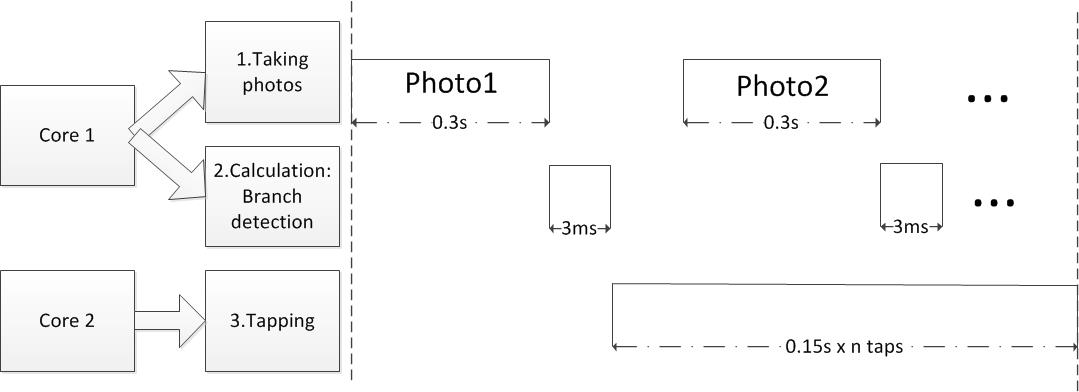
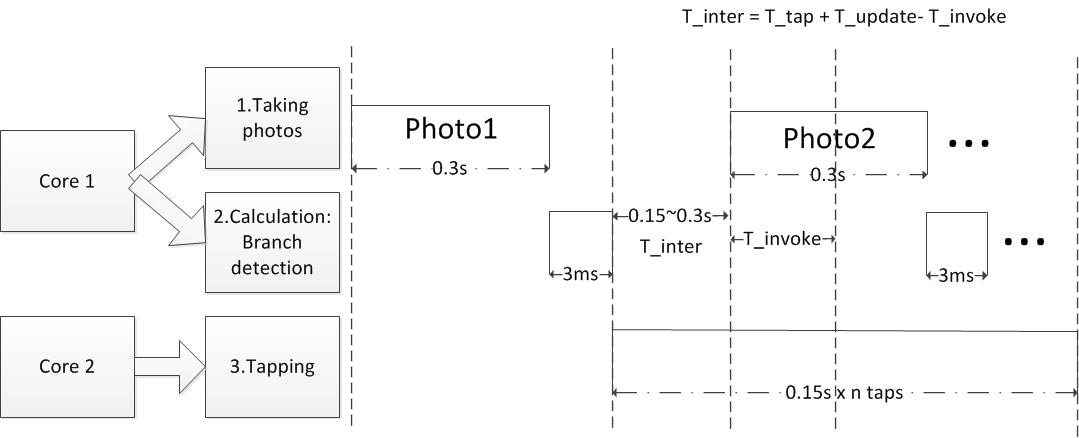
final

diff --git a/index.html b/index.html
@@ -430,30 +430,34 @@
             <p class="lead">Even if our Pi Game Player is able to defeat all human players, the accident game-over caused by miss tapping on the touch screen is an annoying but important issue for this project. If this problem can be resolved, our Pi Game Player can get an infinite score in theory. Therefore this part is going to analyze the possibilities of the missing taping and covers some methods to improve or resolve it.</p>
             <ul>
 			<li><p><b><span>Possible Reasons for missing Tapping</span></b></p>
-			<b>(1) Golden Pad</b>
-			<br>
-			To address the problem of the missing tapping owing to electrodes, TA Jacob recommended us we can use a gold pad for our electrodes since the conductivity of golden is higher than copper. So it can collect electrons from the electrodes better and faster than the copper which we are using for our project right now. 
-			<br>
-			<b>(2) Environmental Light Condition</b>
-			<br>
-			In this project, we put lots of effort in speeding up our algorithm so we made the resolution of the picture taken by the piCamera really low (160*120). However, this idea makes our algorithm vulnerable to the environmental light condition - every time we test our program we have to make the environmental light condition uniform by keeping it for a certain distance. We can make our algorithm less vulnerable by elevating our resolution to 320*240. If we make the resolution higher, the image would contain more intensity information and we can make our algorithm more stable and accurate. 
-			<br>
-			<b>(3) Detection </b>
-			<br>
-			For now, our platform uses a cheap picamera which provides a low-quality image and slows the speeds of our implementation. Another alternative to speed up our algorithm and enhance the accuracy of our detection is to use RGB Color Sensor with IR filter. With the RGB Color Sensor, it can detect the changes of the color over a region fast and accurately, which provides a better solution than piCamera. Furthermore, using this sensor, we don't need to take care of the issue of environmental light condition change because it only detects the changes in the RGB values. 
-			<br>
-			<b>(4) Circuits</b>
-			<br>
-			First, the missing tapping probably owing to the circuit we built for triggering a tapping. The most suspicious part which can cause this problem is the H11F1. According to its datasheet, the time for turning on/off is less than 15us which seems pretty good. However, here we are using coins as the pad for drawing electrons so that time consumed maybe not stable. Thus sometimes the time for drawing a few electrons maybe even more than 0.05s which leads to a miss tapping.
-			<br>
-			<b>(5) Errors of tapping detection on the capacitive touch screen</b>
-			<br>
-			Furthermore, the missing tapping may also result from the miss detection of the capacitive touch screen. We all have the experiences that sometimes the touch-screen is not so sensitive when we touch our smartphone. Thus, such so-called miss tapping may actually the missing detecting of our touch-screen which is unavoidable.
+			
+			The missing tapping may also result from the miss detection of the capacitive touch screen. We all have the experiences that sometimes the touch-screen is not so sensitive when we touch our smartphone. Thus, such so-called miss tapping may actually the missing detecting of our touch-screen which is unavoidable.
             </li>
 			<li><p><b><span>Strategies for resolving these problems</span></b></p>
-			Since the time for each process like taking photos, tapping can't be further decreased, and the problem of missing tapping can be reduced by the extension of tapping time, the timing control is a tricky issue here. We have to consider about the enough time but can not make it too long owing to the time limit when playing the game.  The best idea for improving the speed of executing multiple processes is pipelining/paralleled execution. 
+            <b>(1) Golden Pad</b>
+            <br>
+            To address the problem of the missing tapping owing to electrodes, TA Jacob recommended us we can use a gold pad for our electrodes since the conductivity of golden is higher than copper. So it can collect electrons from the electrodes better and faster than the copper which we are using for our project right now. 
+            <br>
+            <b>(2) Environmental Light Condition</b>
+            <br>
+            In this project, we put lots of effort in speeding up our algorithm so we made the resolution of the picture taken by the piCamera really low (160*120). However, this idea makes our algorithm vulnerable to the environmental light condition - every time we test our program we have to make the environmental light condition uniform by keeping it for a certain distance. We can make our algorithm less vulnerable by elevating our resolution to 320*240. If we make the resolution higher, the image would contain more intensity information and we can make our algorithm more stable and accurate. 
+            <br>
+            <b>(3) Detection </b>
+            <br>
+            For now, our platform uses a cheap picamera which provides a low-quality image and slows the speeds of our implementation. Another alternative to speed up our algorithm and enhance the accuracy of our detection is to use RGB Color Sensor with IR filter. With the RGB Color Sensor, it can detect the changes of the color over a region fast and accurately, which provides a better solution than piCamera. Furthermore, using this sensor, we don't need to take care of the issue of environmental light condition change because it only detects the changes in the RGB values. 
+            <br>
+            <b>(4) Circuits</b>
+            <br>
+            First, the missing tapping probably owing to the circuit we built for triggering a tapping. The most suspicious part which can cause this problem is the H11F1. According to its datasheet, the time for turning on/off is less than 15us which seems pretty good. However, here we are using coins as the pad for drawing electrons so that time consumed maybe not stable. Thus sometimes the time for drawing a few electrons maybe even more than 0.05s which leads to a miss tapping.
+            <br>
+            <b>(5) Parallelized Execution</b>
+            <br>
+			Currently, our Pi Game Player can do a good job but it can perform better. The timing control is a tricky issue here because the time for each process like taking photos, tapping can't be further decreased, and the problem of missing tapping can be reduced by the extension of tapping time. We have to consider about the enough time but can not make it too long owing to the time limit when playing the game.  The best idea for improving the speed of executing multiple processes is pipelining/paralleled execution. 
 			<br>
-			Here we want to appreciate our professor - Professor Joseph who provided this idea! We can build a FIFO system to store the control signals generated by the calculation. We can use different cores to be in charge different work here. For example, the job of Core 1 is to take photos, calculate the values for detection and store control signals into control FIFO. Core 2 is responsible for tapping on the screen. Following is the basic idea of paralleled execution for our project. Since the time of two tapping is nearly the same as taking one photo plus the calculation. Besides, we can generate five tapping events after taking one photo, the paralleled execution is practicable. Just as the timing diagram shows, after the first picture taken and analyzed, five tapping control signals have been stored into output FIFO. Aud after tapping twice, the screen is updated which is available to take a new photo and generate another two tapping control signals. By doing this, the process of watching+thinking and tapping can be fluently paralleled executed. So now time for each tapping is <span style="background-color: #E0E0E0">0.15s</span>. The time contraint for this game is about <span style="background-color: #E0E0E0">0.21s</span> each tapping. In other words, within this tapping time, players can continue playing nearly forever without missing judgment. Under that condition, we can extend the tapping time to <span style="background-color: #E0E0E0">0.16~0.20s</span> to improve the tapping accuracy and improve its performance (playing speed) as well.
+			Here we want to appreciate our professor - Professor Joseph who provided this idea! We can build a FIFO system to store the control signals generated by the calculation. We can use different cores to be in charge different work here. For example, the job of Core 1 is to take photos, calculate the values for detection and store control signals into control FIFO. Core 2 is responsible for tapping on the screen. However, it is a tough work to implement it.
+			<br>
+			Following is the timing specification of the paralleled execution for our project. Here we have to analyze the timing issue carefully. Just as the timing diagram shows, after the first picture taken and analyzed, five tapping control signals have been stored into the output FIFO. The T_inter is a critical time here for starting the second photos. We want to add two more control signals in the output FIFO because the time for two tappings is nearly the same with taking one photos. By doing this, we can fill the pipeline thus get the highest throughput. We have to take the second photo with the screen is updated after two tappings and before the third tapping. As the following equation shows, T_tap is the time for the first tapping (0.15s); T_update is the time for updating the display; T_invoke is the prepareing time for taking one photo like invoking the functions.
+			By analyzing these parameters, we can get the correct point to start the process of taking further photos so that the process of watching+thinking and tapping can be fluently paralleled executed. So now time for each tapping is <span style="background-color: #E0E0E0">0.15s</span>. The time contraint for this game is about <span style="background-color: #E0E0E0">0.21s</span> each tapping. In other words, within this tapping time, players can continue playing nearly forever without missing judgment. Under that condition, we can extend the tapping time to <span style="background-color: #E0E0E0">0.16~0.20s</span> to improve the tapping accuracy and improve its performance (playing speed) as well.
 			<br>
 				<div style="text-align:center">
                 <img src = "img/time2.jpg" alt="time2.jpg">
